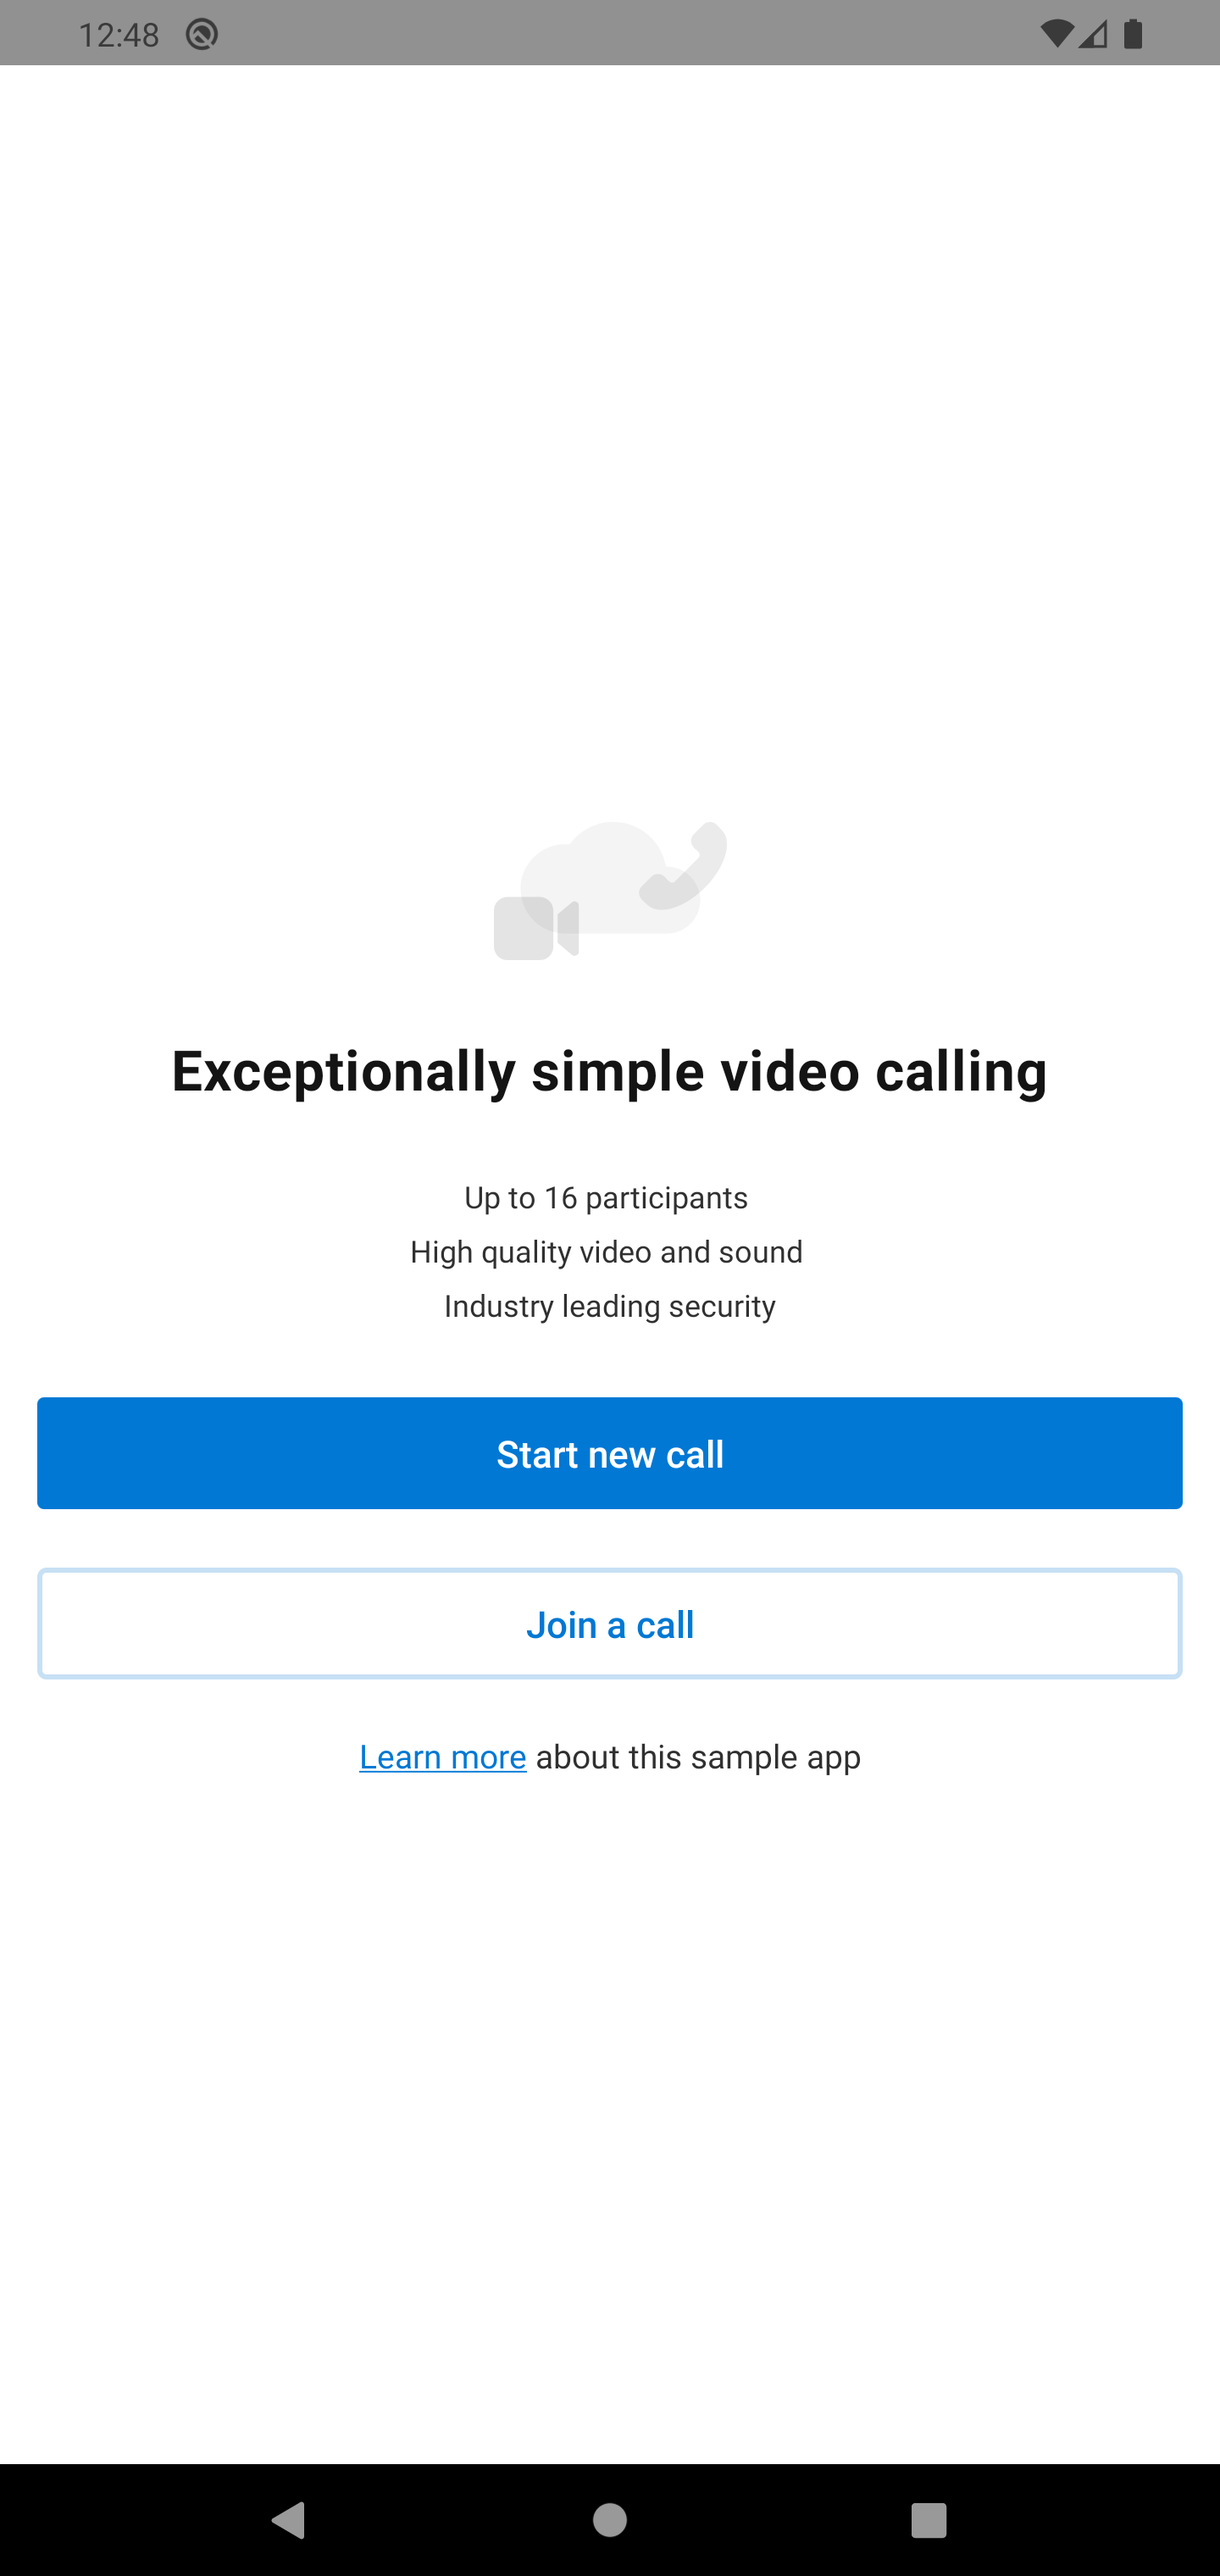
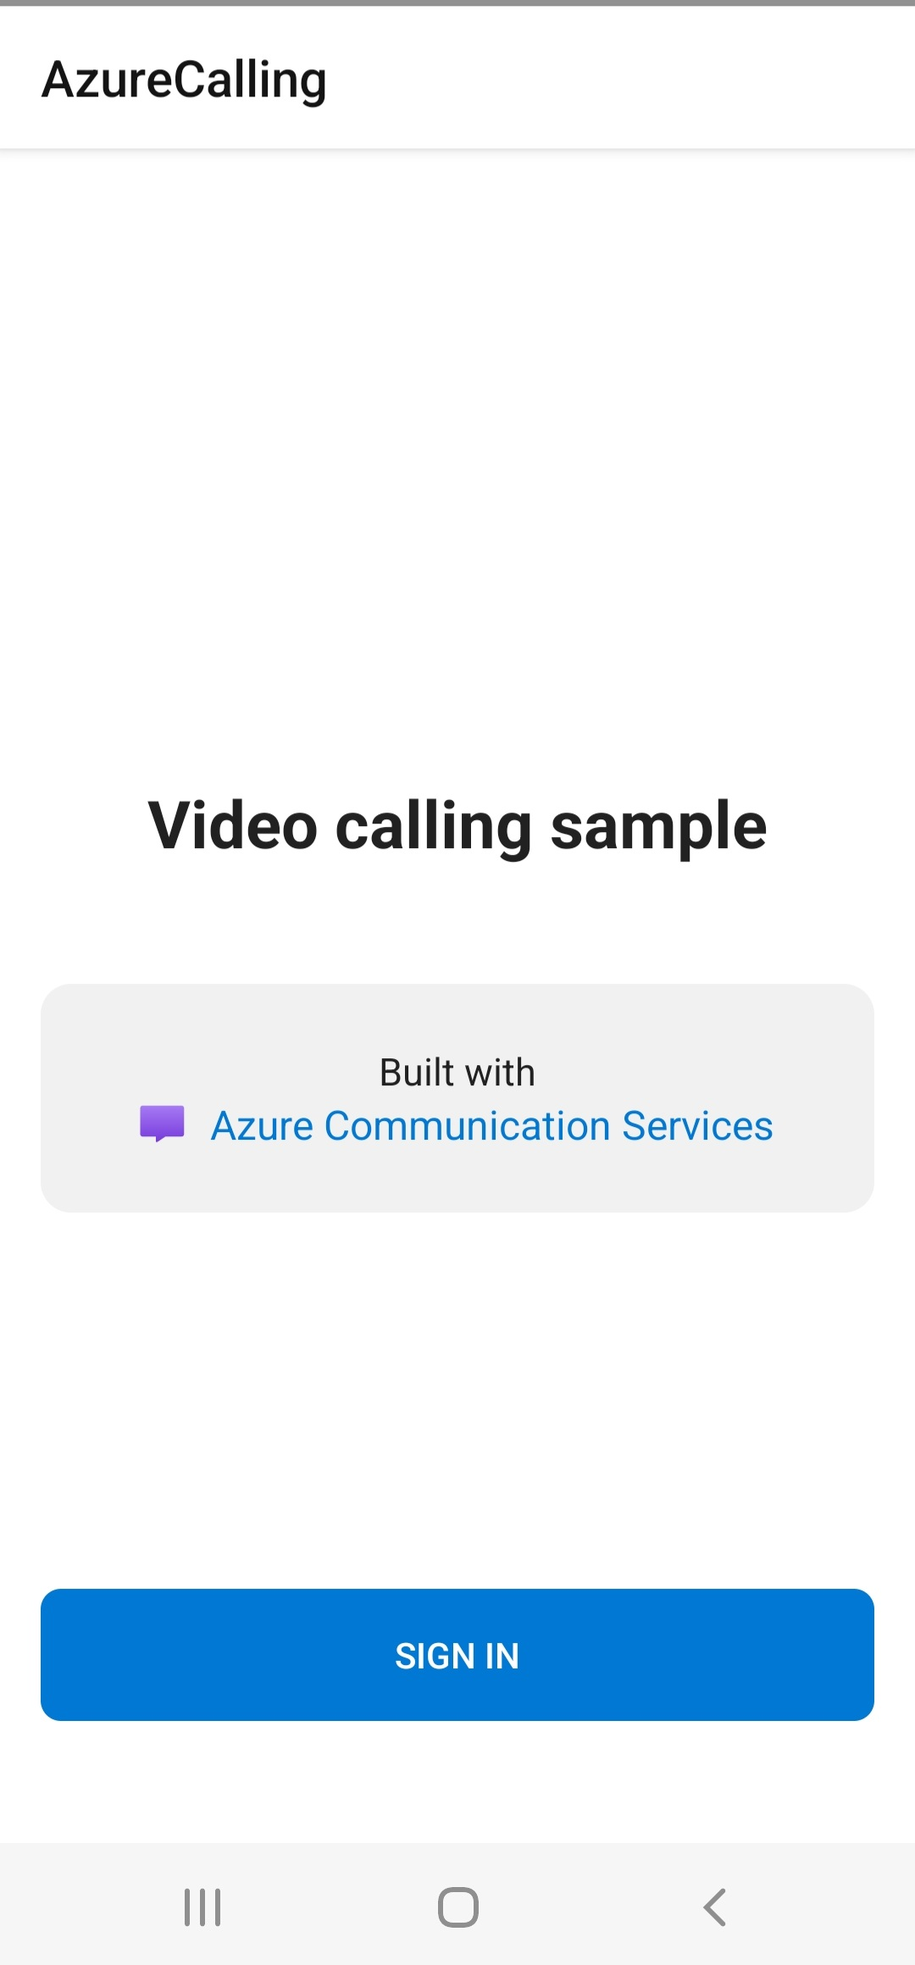
Update github readme for hero sample migration

diff --git a/README.md b/README.md
@@ -5,11 +5,12 @@ languages:
 products:
 - azure
 - azure-communication-services
+- communication-ui-library-android
 ---
 
 # Group Calling Sample
 
-The sample is a native Android application that uses the Azure Communication Services Android client libraries to build a calling experience that features both voice and video calling. The application uses a server-side component to provision access tokens that are then used to initialize the Azure Communication Services client library. To configure this server-side component, feel free to follow the [Trusted Service with Azure Functions](https://docs.microsoft.com/azure/communication-services/tutorials/trusted-service-tutorial) tutorial.
+The sample is a native Android application that uses the [Azure Communication Services Android UI client library](https://docs.microsoft.com/en-us/azure/communication-services/quickstarts/ui-library/get-started-composites?tabs=kotlin&pivots=platform-android) to build a calling experience that features both voice and video calling. The application uses a server-side component to provision access tokens that are then used to initialize the Azure Communication Services client library. To configure this server-side component, feel free to follow the [Trusted Service with Azure Functions](https://docs.microsoft.com/azure/communication-services/tutorials/trusted-service-tutorial) tutorial.
 
 Additional documentation for this sample can be found on [Microsoft Docs](https://docs.microsoft.com/en-us/azure/communication-services/samples/calling-hero-sample?pivots=platform-android). See this sample's wiki to see updated information on [known issues](https://github.com/Azure-Samples/communication-services-android-calling-hero/wiki/Known-Issues)
 
@@ -22,11 +23,10 @@ Additional documentation for this sample can be found on [Microsoft Docs](https:
 - Switch layout between different call cases: only-local video view, one-on-one call view and group call with multiple participants
 - Turning local video stream from camera on/off
 - Mute/unmute local microphone audio
+- call on hold
 
  <img src="./docs/images/landing-page-android.png" height="680">
- <img src="./docs/images/setup-page-android.png" height="680">
- <img src="./docs/images/join-a-call-page-android.png" height="680">
- <img src="./docs/images/call-page-android.png" height="680">
+ <img src="./docs/images/intro-page-android.png" height="680">
 
 ## Prerequisites
 
